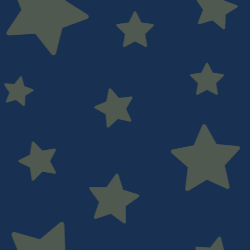
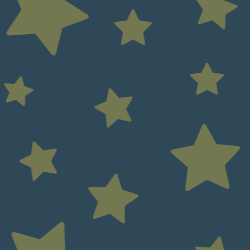
dynamic background

diff --git a/src/BG.svelte b/src/BG.svelte
@@ -1,19 +1,45 @@
 <script>
-  import {
-    gameLoaderWordId,
-    gameLoaded,
-    gameWordLimit,
-    gamePoints,
-    eventTrigger,
-  } from "./store.js";
+  import { gameState, bonustime, timerEnd } from "./store.js";
+  const switchBackground = function () {
+    return $timerEnd ? "gameOver" : $bonustime ? "bonus" : "default";
+  };
+  $: preloadImageUrls = [
+    "/assets/bg-tile-yellow-stars.png",
+    "/assets/bg-tile-blue-stars.png",
+    "/assets/bg-tile-orange-stars.png",
+  ];
 </script>
 
-<div class="background" />
+<!-- <svelte:head>
+  {#each preloadImageUrls as image}
+    <link rel="preload" as="image" href={image} />
+  {/each}
+</svelte:head> -->
+
+{#key $gameState}
+  <div id="preload" class="bonus default gameOver" />
+  <div id="background" class={switchBackground()} />
+{/key}
 
 <style>
-  .background {
-    background-image: url("/assets/bg-tile-blue-stars.png");
+  #background {
     width: 100vw;
     height: 100vh;
+  }
+
+  #preload {
+    display: none;
+  }
+
+  .bonus {
+    background-image: url("/assets/bg-tile-yellow-stars.png");
+  }
+
+  .default {
+    background-image: url("/assets/bg-tile-blue-stars.png");
+  }
+
+  .gameOver {
+    background-image: url("/assets/bg-tile-orange-stars.png");
   }
 </style>

diff --git a/src/store.js b/src/store.js
@@ -2,6 +2,8 @@ import { writable, readable } from "svelte/store";
 import { localData } from "./functions/localstorage.svelte";
 
 // NON PERSISTENT
+export const ticks = readable(30);
+
 export const gameLoaded = writable(false);
 export const gameLoaderWordId = writable(0);
 export const gameWordLimit = writable(10);
@@ -11,10 +13,11 @@ export const currentWordProgress = writable(0);
 export const expMultiplier = writable(10);
 export const maxExp = readable(35);
 export const bonustime = writable(false);
-export const ticks = readable(10);
 export const trigger = writable(0);
 export const eventTrigger = writable({ save: 0 });
 export const timerEnd = writable(false);
+
+export const gameState = writable(0);
 
 // UPDATED FROM LOCALSTORAGE
 export const gamePoints = writable({ points: 0 });

diff --git a/src/Expbar.svelte b/src/Expbar.svelte
@@ -1,6 +1,6 @@
 <script>
   // TODO: #15 expbar should be right aligned
-  import { expObj, trigger, maxExp, bonustime } from "./store.js";
+  import { expObj, trigger, maxExp, bonustime, gameState } from "./store.js";
   import { gsap } from "gsap";
 
   let expBar;
@@ -25,6 +25,7 @@
   };
 
   const bonusTime = function () {
+    $gameState += 1;
     $bonustime = true;
     console.log("bonustime: ", $bonustime);
     gsap.to($expObj, {
@@ -32,6 +33,7 @@
       duration: bonusduration,
       ease: "linear",
       onComplete: function () {
+        $gameState += 1;
         $bonustime = false;
         console.log("bonustime: ", $bonustime);
       },

diff --git a/src/GameLoader.svelte b/src/GameLoader.svelte
@@ -5,6 +5,7 @@
     gameWordLimit,
     gamePoints,
     eventTrigger,
+    gameState,
   } from "./store.js";
   import MatchingGame from "./matching-game.svelte";
   import Timer from "./Timer.svelte";
@@ -21,6 +22,7 @@
   $gamePoints = sessionStorage.get("points");
   $: $gamePoints && sessionStorage.set($gamePoints);
   $: $eventTrigger.save && sessionStorage.save();
+  $: $gameState, console.log($gameState);
 
   // push an id (0,1,2 etc) to LIMIT for each game word
   // this is so we can cycle through the array with svelte

diff --git a/src/Timer.svelte b/src/Timer.svelte
@@ -2,7 +2,7 @@
 <script>
   import CircleTimer from "circle-timer";
   import { onMount } from "svelte";
-  import { ticks, timerEnd } from "./store";
+  import { ticks, timerEnd, gameState } from "./store";
   let circleTimer;
   let tick = $ticks;
   let paused = false;
@@ -11,7 +11,8 @@
       tick -= 1;
       if (tick <= 0) {
         paused = true;
-        $timerEnd = true
+        $gameState += 1;
+        $timerEnd = true;
       }
     }
   }, 1000);

diff --git a/src/matching-game.svelte b/src/matching-game.svelte
@@ -189,7 +189,6 @@
     }
   };
   afterUpdate(() => {
-    console.log($timerEnd);
     if ($timerEnd) {
       dropableLetter.forEach((element) => {
         let draggable = Draggable.get(element);
